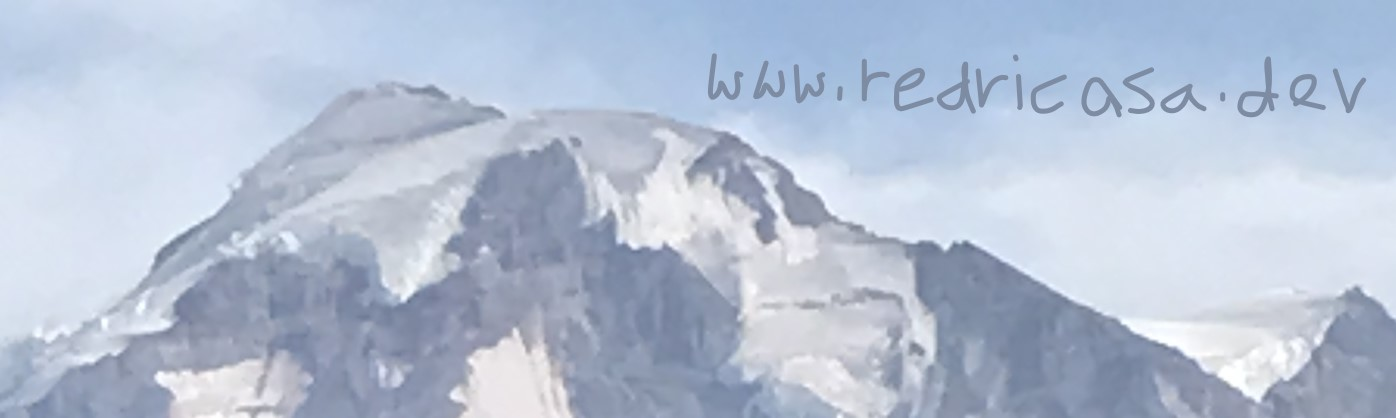
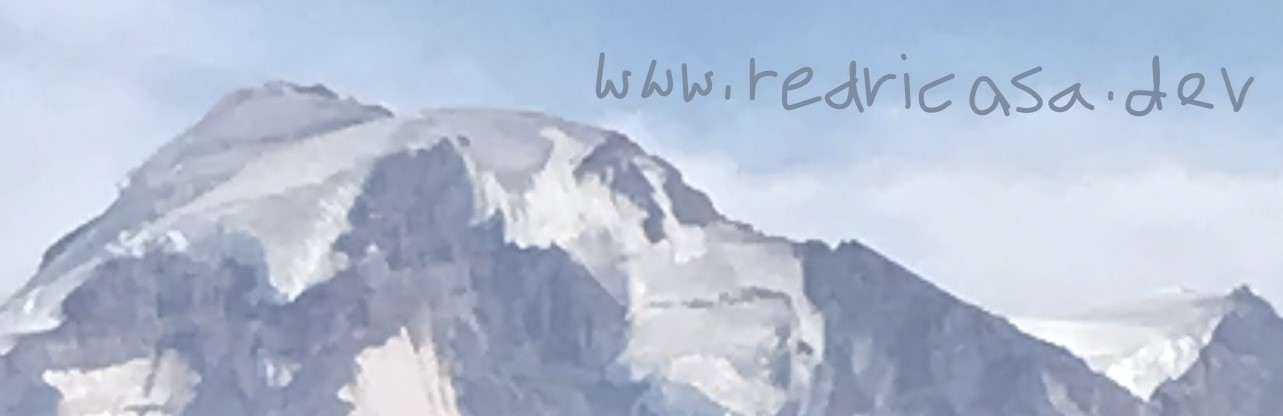
cropped mountain image, deleted commented out code in style.css

Changed region(s): [[0.0, 0.1875, 0.7794, 1.0], [0.4677, 0.125, 0.9977, 0.2812], [0.7794, 0.75, 0.9665, 1.0]]

diff --git a/css/style.css b/css/style.css
@@ -25,9 +25,9 @@ p {
   height: auto;
   color: rgba(255,255,255,.9);
 }
-  .parallax-container .section {
-    width: 100%;
-  }
+.parallax-container .section {
+  width: 100%;
+}
 
 @media only screen and (max-width : 992px) {
   .parallax-container .section {
@@ -57,13 +57,8 @@ footer.page-footer {
 }
 
 #intro{
-  /* text-align: center; */
-  /* display: inline-block; */
-  /* height: 1em; */
   margin-left:15em;
   margin-right:25em;
-  margin-bottom: 6em;
+  margin-bottom:6em;
   margin:none;
-  /* padding: 1em; */
-
 }
